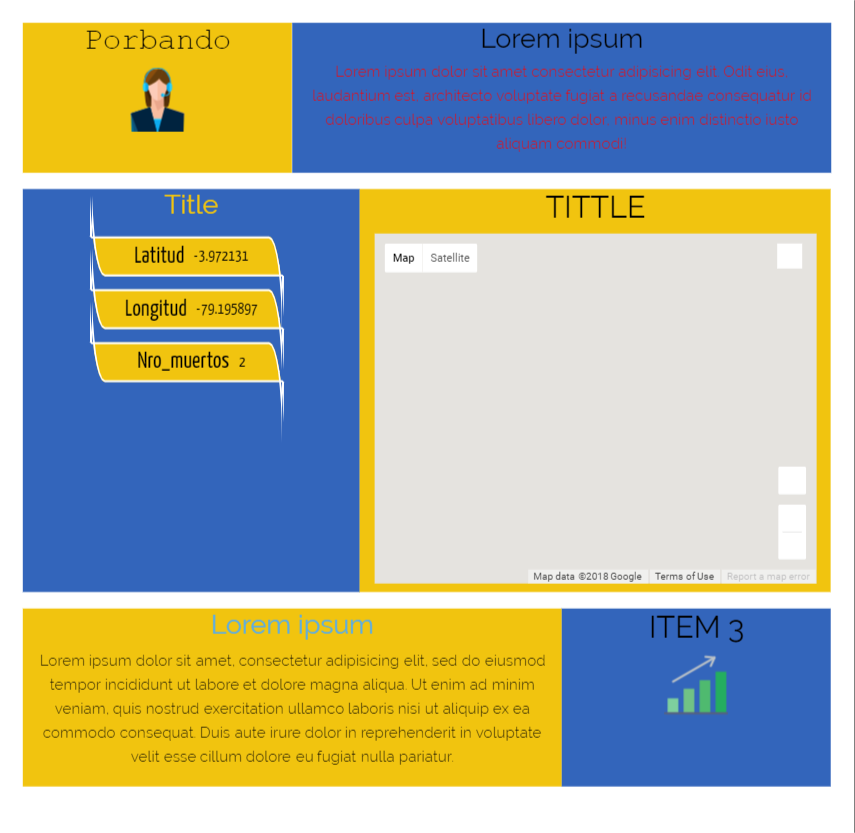
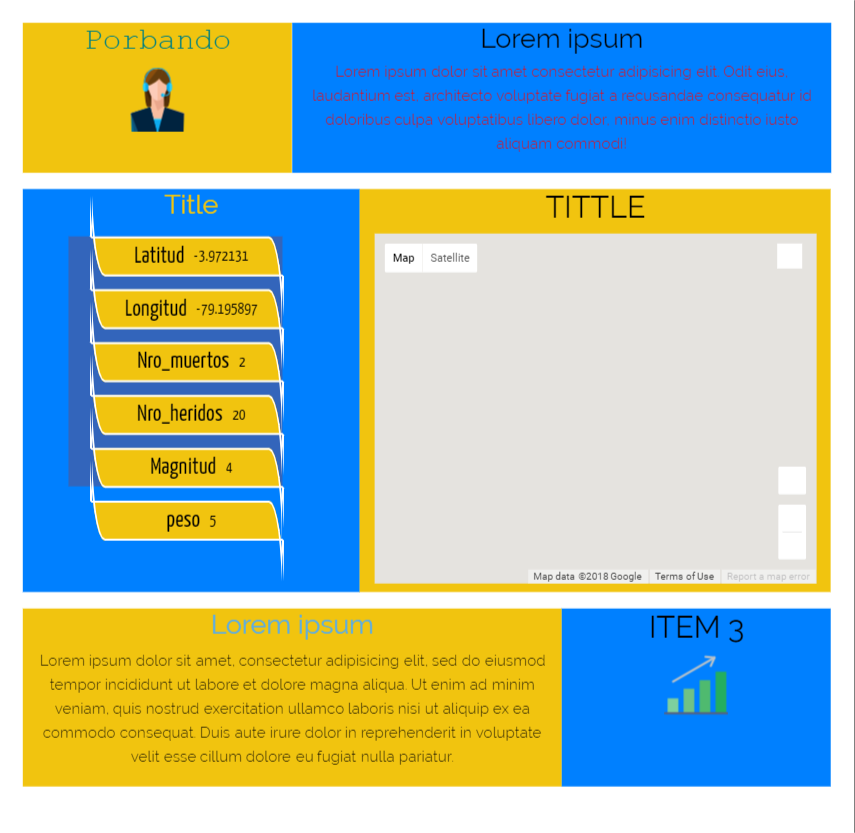
Agregando cambios en la edicion de las letras en la infografía

diff --git a/resources/views/plantillas/plantilla1.blade.php b/resources/views/plantillas/plantilla1.blade.php
@@ -35,19 +35,19 @@
 									<img src="../../img/us.png" name="foto1">
 								</div>
 								<div class="col-md-8" id="color-aside-d">
-									<h3 contenteditable="true" name="titulo2" contenteditable="true">Lorem ipsum</h3>
-									<p contenteditable="true" name="parrafo1" contenteditable="true">Lorem ipsum dolor sit amet consectetur adipisicing elit. Odit eius, laudantium est, architecto voluptate fugiat a recusandae consequatur id doloribus 
+									<h3 contenteditable="true" name="titulo2" contenteditable="true" id="titulo2">Lorem ipsum</h3>
+									<p contenteditable="true" name="parrafo1" contenteditable="true" id="parrafo1">Lorem ipsum dolor sit amet consectetur adipisicing elit. Odit eius, laudantium est, architecto voluptate fugiat a recusandae consequatur id doloribus 
 									culpa voluptatibus libero dolor, minus enim distinctio iusto aliquam commodi!</p>
 								</div>
 							</div>
 							<!-- Fila 2 -->
 							<div class="row" id="color-aside2">
 								<div class="col-md-5" id="color-aside-2-i">
-									<h3 contenteditable="true" name="titulo3">Title</h3>
+									<h3 contenteditable="true" name="titulo3" id="titulo3">Title</h3>
 									<div class="figura"></div>
 								</div>
 								<div class="col-md-7 " id="color-aside-2-d">
-									<h2 contenteditable="true" nme="titulo4">TITTLE</h2>
+									<h2 contenteditable="true" nme="titulo4" id="titulo4">TITTLE</h2>
 									<div id="map">My map will go here</div>  
 								</div>
 
@@ -55,16 +55,16 @@
 							<!-- Fila 3 -->
 							<div class="row" id="color-aside3">
 								<div class="col-md-8" id="color-aside-3-i">
-									<h3 contenteditable="true" nem="titulo5">Lorem ipsum</h3>
+									<h3 contenteditable="true" nem="titulo5" id="titulo5">Lorem ipsum</h3>
 
-									<p contenteditable="true" name="parrafo2">	
+									<p contenteditable="true" name="parrafo2" id="parrafo2">	
 										Lorem ipsum dolor sit amet, consectetur adipisicing elit, sed do eiusmod tempor incididunt ut labore et dolore magna aliqua.
 										Ut enim ad minim veniam, quis nostrud exercitation ullamco laboris nisi ut aliquip ex ea commodo consequat. Duis aute
 										irure dolor in reprehenderit in voluptate velit esse cillum dolore eu fugiat nulla pariatur.
 									</p>
 								</div>
 								<div class="col-md-4" id="color-aside-3-d">
-									<h2 contenteditable="true" name="titulo6">
+									<h2 contenteditable="true" name="titulo6" id="titulo6">
 										ITEM 3
 									</h2>
 									<img src="../../img/grafico.png" name="foto2">
@@ -222,6 +222,37 @@ src="https://maps.googleapis.com/maps/api/js?key=AIzaSyAcYVGjUno8qc20yhUk92Pxpmh
 		string='#parrafo1';
 	});
 
+	$('#titulo3').click(function(){
+		$('#ok_letra').css({'opacity':'0.9', 'filter':'alpha(opacity=20)'} );
+		$('#tipoLetra').css({'opacity':'0.9', 'filter':'alpha(opacity=20)'} );
+		string='#titulo3';
+	});
+
+	$('#titulo4').click(function(){
+		$('#ok_letra').css({'opacity':'0.9', 'filter':'alpha(opacity=20)'} );
+		$('#tipoLetra').css({'opacity':'0.9', 'filter':'alpha(opacity=20)'} );
+		string='#titulo4';
+	});
+
+	$('#titulo5').click(function(){
+		$('#ok_letra').css({'opacity':'0.9', 'filter':'alpha(opacity=20)'} );
+		$('#tipoLetra').css({'opacity':'0.9', 'filter':'alpha(opacity=20)'} );
+		string='#titulo5';
+	});
+
+	$('#parrafo2').click(function(){
+		$('#ok_letra').css({'opacity':'0.9', 'filter':'alpha(opacity=20)'} );
+		$('#tipoLetra').css({'opacity':'0.9', 'filter':'alpha(opacity=20)'} );
+		string='#parrafo2';
+	});
+
+	$('#titulo6').click(function(){
+		$('#ok_letra').css({'opacity':'0.9', 'filter':'alpha(opacity=20)'} );
+		$('#tipoLetra').css({'opacity':'0.9', 'filter':'alpha(opacity=20)'} );
+		string='#titulo6';
+	});
+
+
 	$('#ok_letra').click(function(){
 		var color=$('#color-letra').val();
 		if(string == '#titulo1'){
@@ -231,6 +262,36 @@ src="https://maps.googleapis.com/maps/api/js?key=AIzaSyAcYVGjUno8qc20yhUk92Pxpmh
 			if(string == '#titulo2'){
 				$('#titulo2').css({'color': color});
 				$('#titulo2').css({'font-family': var2});
+			}else{
+				if(string == '#parrafo1'){
+					$('#parrafo1').css({'color': color});
+					$('#parrafo1').css({'font-family': var2});
+				}else{
+					if(string == '#titulo3'){
+						$('#titulo3').css({'color': color});
+						$('#titulo3').css({'font-family': var2});
+					}else{
+						if(string == '#titulo4'){
+							$('#titulo4').css({'color': color});
+							$('#titulo4').css({'font-family': var2});
+						}else{
+							if(string == '#titulo5'){
+								$('#titulo5').css({'color': color});
+								$('#titulo5').css({'font-family': var2});
+							}else{
+								if(string == '#parrafo2'){
+									$('#parrafo2').css({'color': color});
+									$('#parrafo2').css({'font-family': var2});
+								}else{
+									if(string == '#titulo6'){
+										$('#titulo6').css({'color': color});
+										$('#titulo6').css({'font-family': var2});
+									}
+								}
+							}
+						}
+					}
+				}
 			}
 		}
 	});

diff --git a/resources/views/plantillas/plantilla2.blade.php b/resources/views/plantillas/plantilla2.blade.php
@@ -10,12 +10,14 @@
 <div class="box_aux"></div>
 
 <div class="container" id="cnt_plantilla2">
-    <div class="row">
-      <!--  <div class="col-md-2">
-            @include('layouts.controlInfografia')
 
-        </div>-->
+    <div class="row">
+      	<div class="col-md-2">
+            @include('layouts.controlInfografia')
+        </div>
         <div class="col-md-12" id="plantilla2">
+			<span id="{{$id}}" class="myInfo" hidden></span>
+
             <div class="text-right">
                 <button type="button" class="btn btn-success " id="btn_editar">Editar</button>
                 <button type="button" class="btn btn-success">Guardar</button>
@@ -89,4 +91,9 @@
              });
     });*/
 </script>
+@endsection
+
+@section('scripts')
+<script src="../../js/manageinfografia.js"></script>
+<script src="../../js/html2canvas.js"></script>
 @endsection
